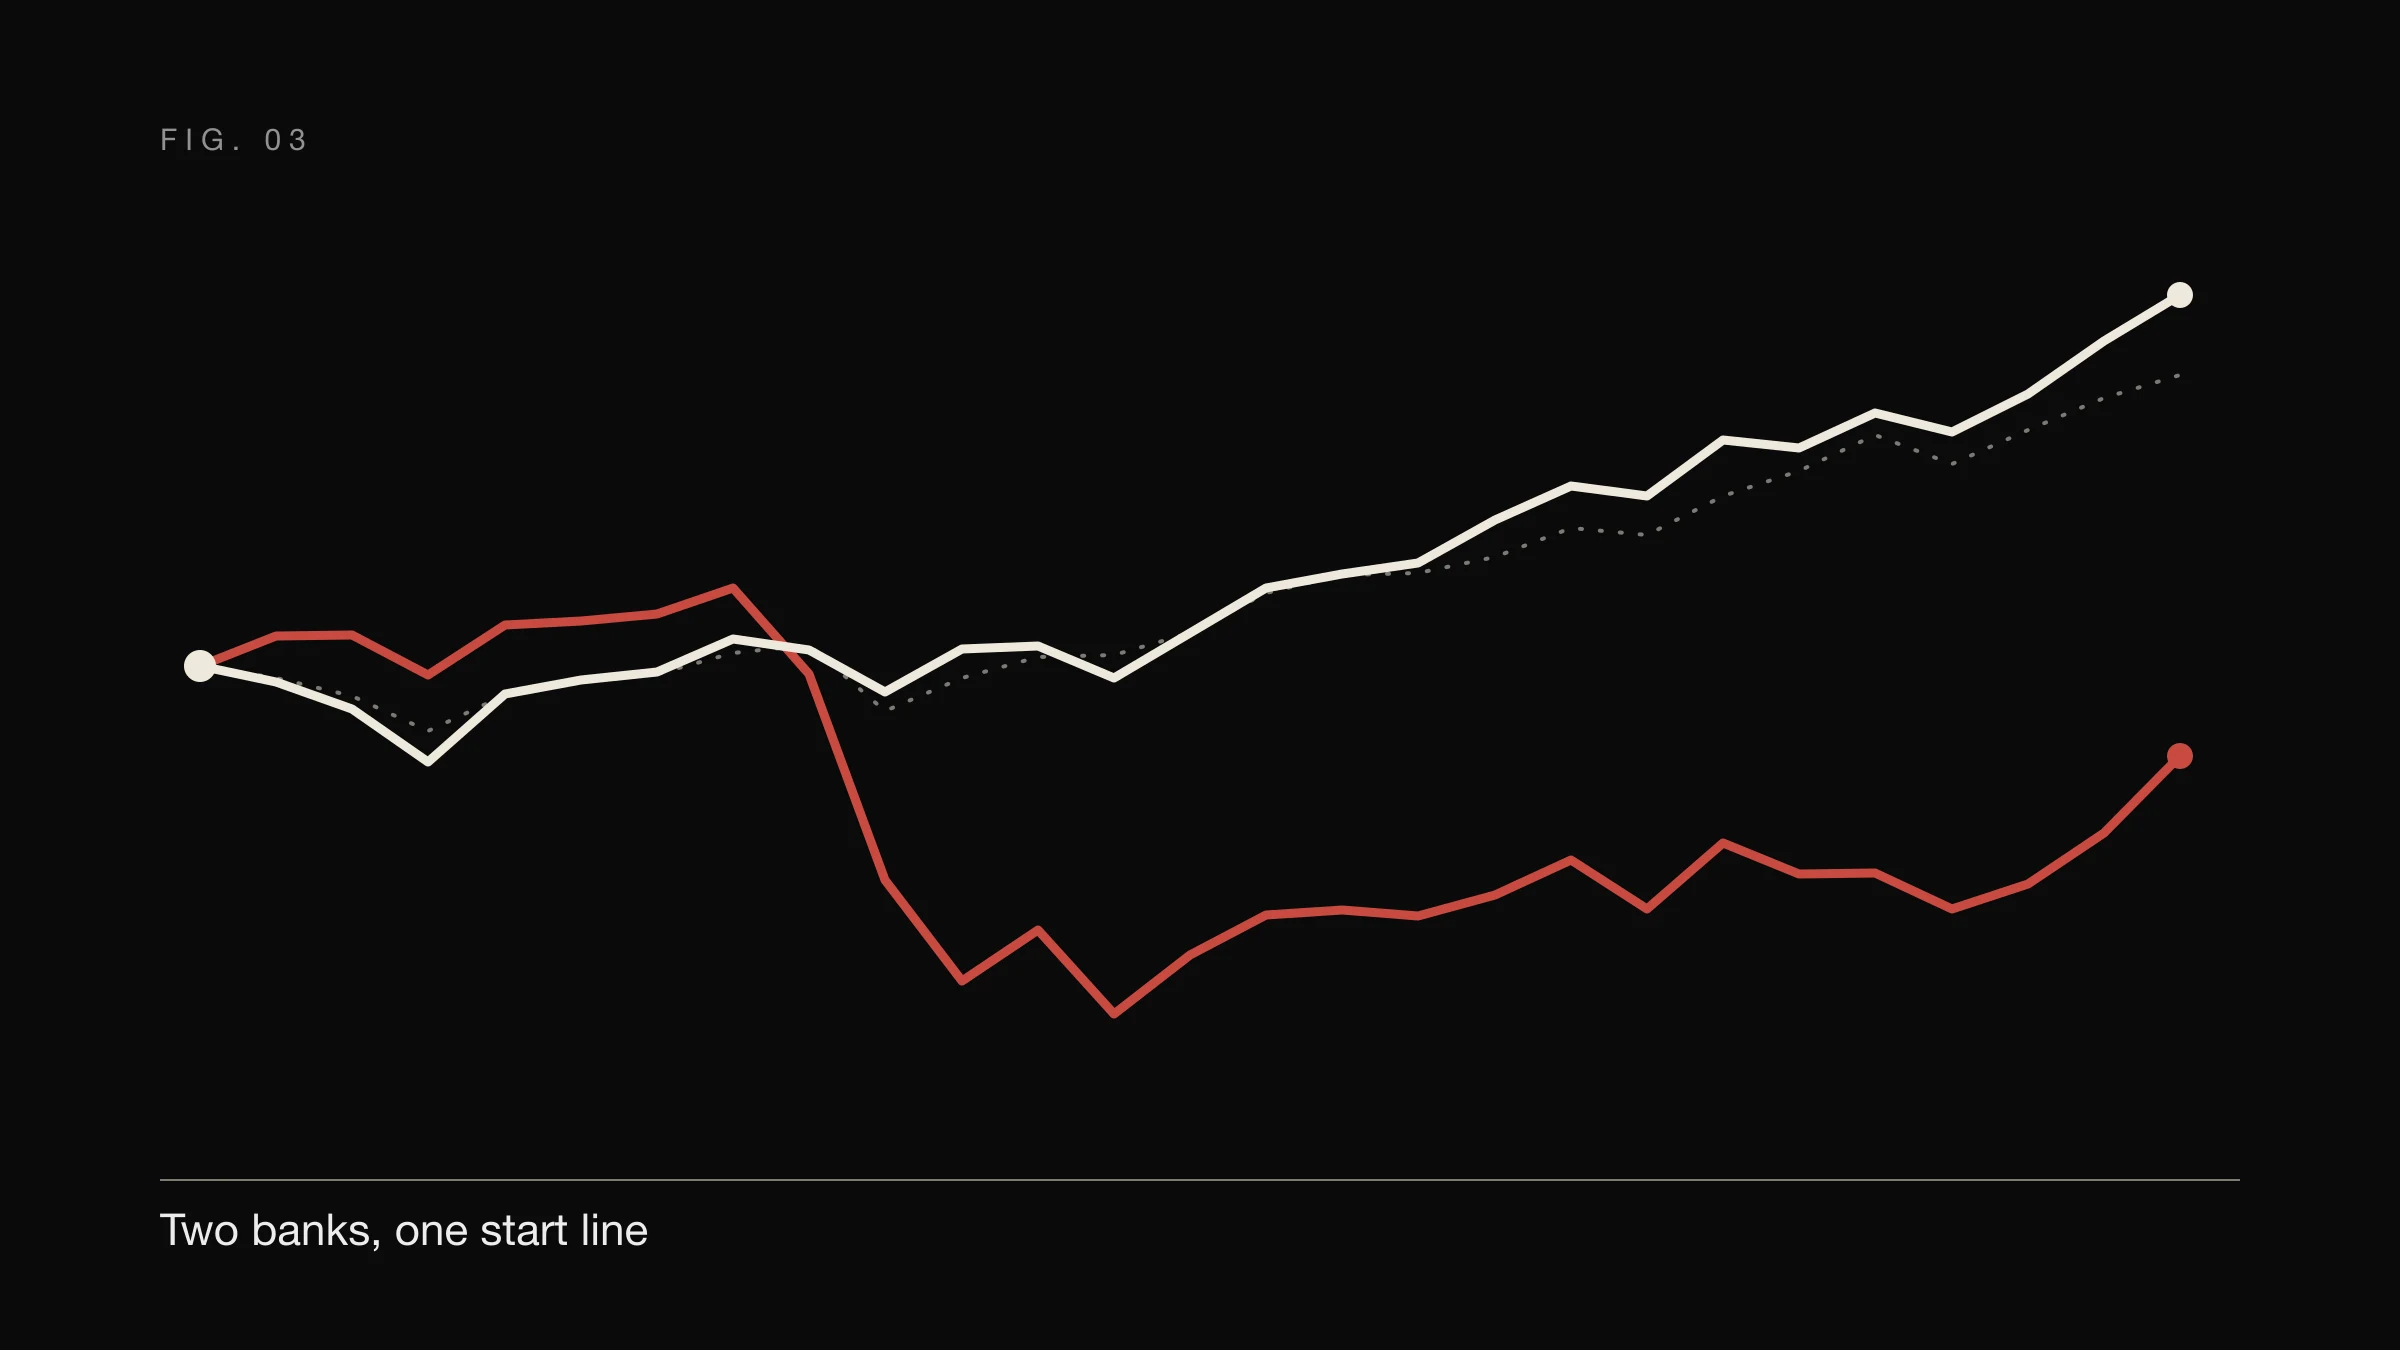
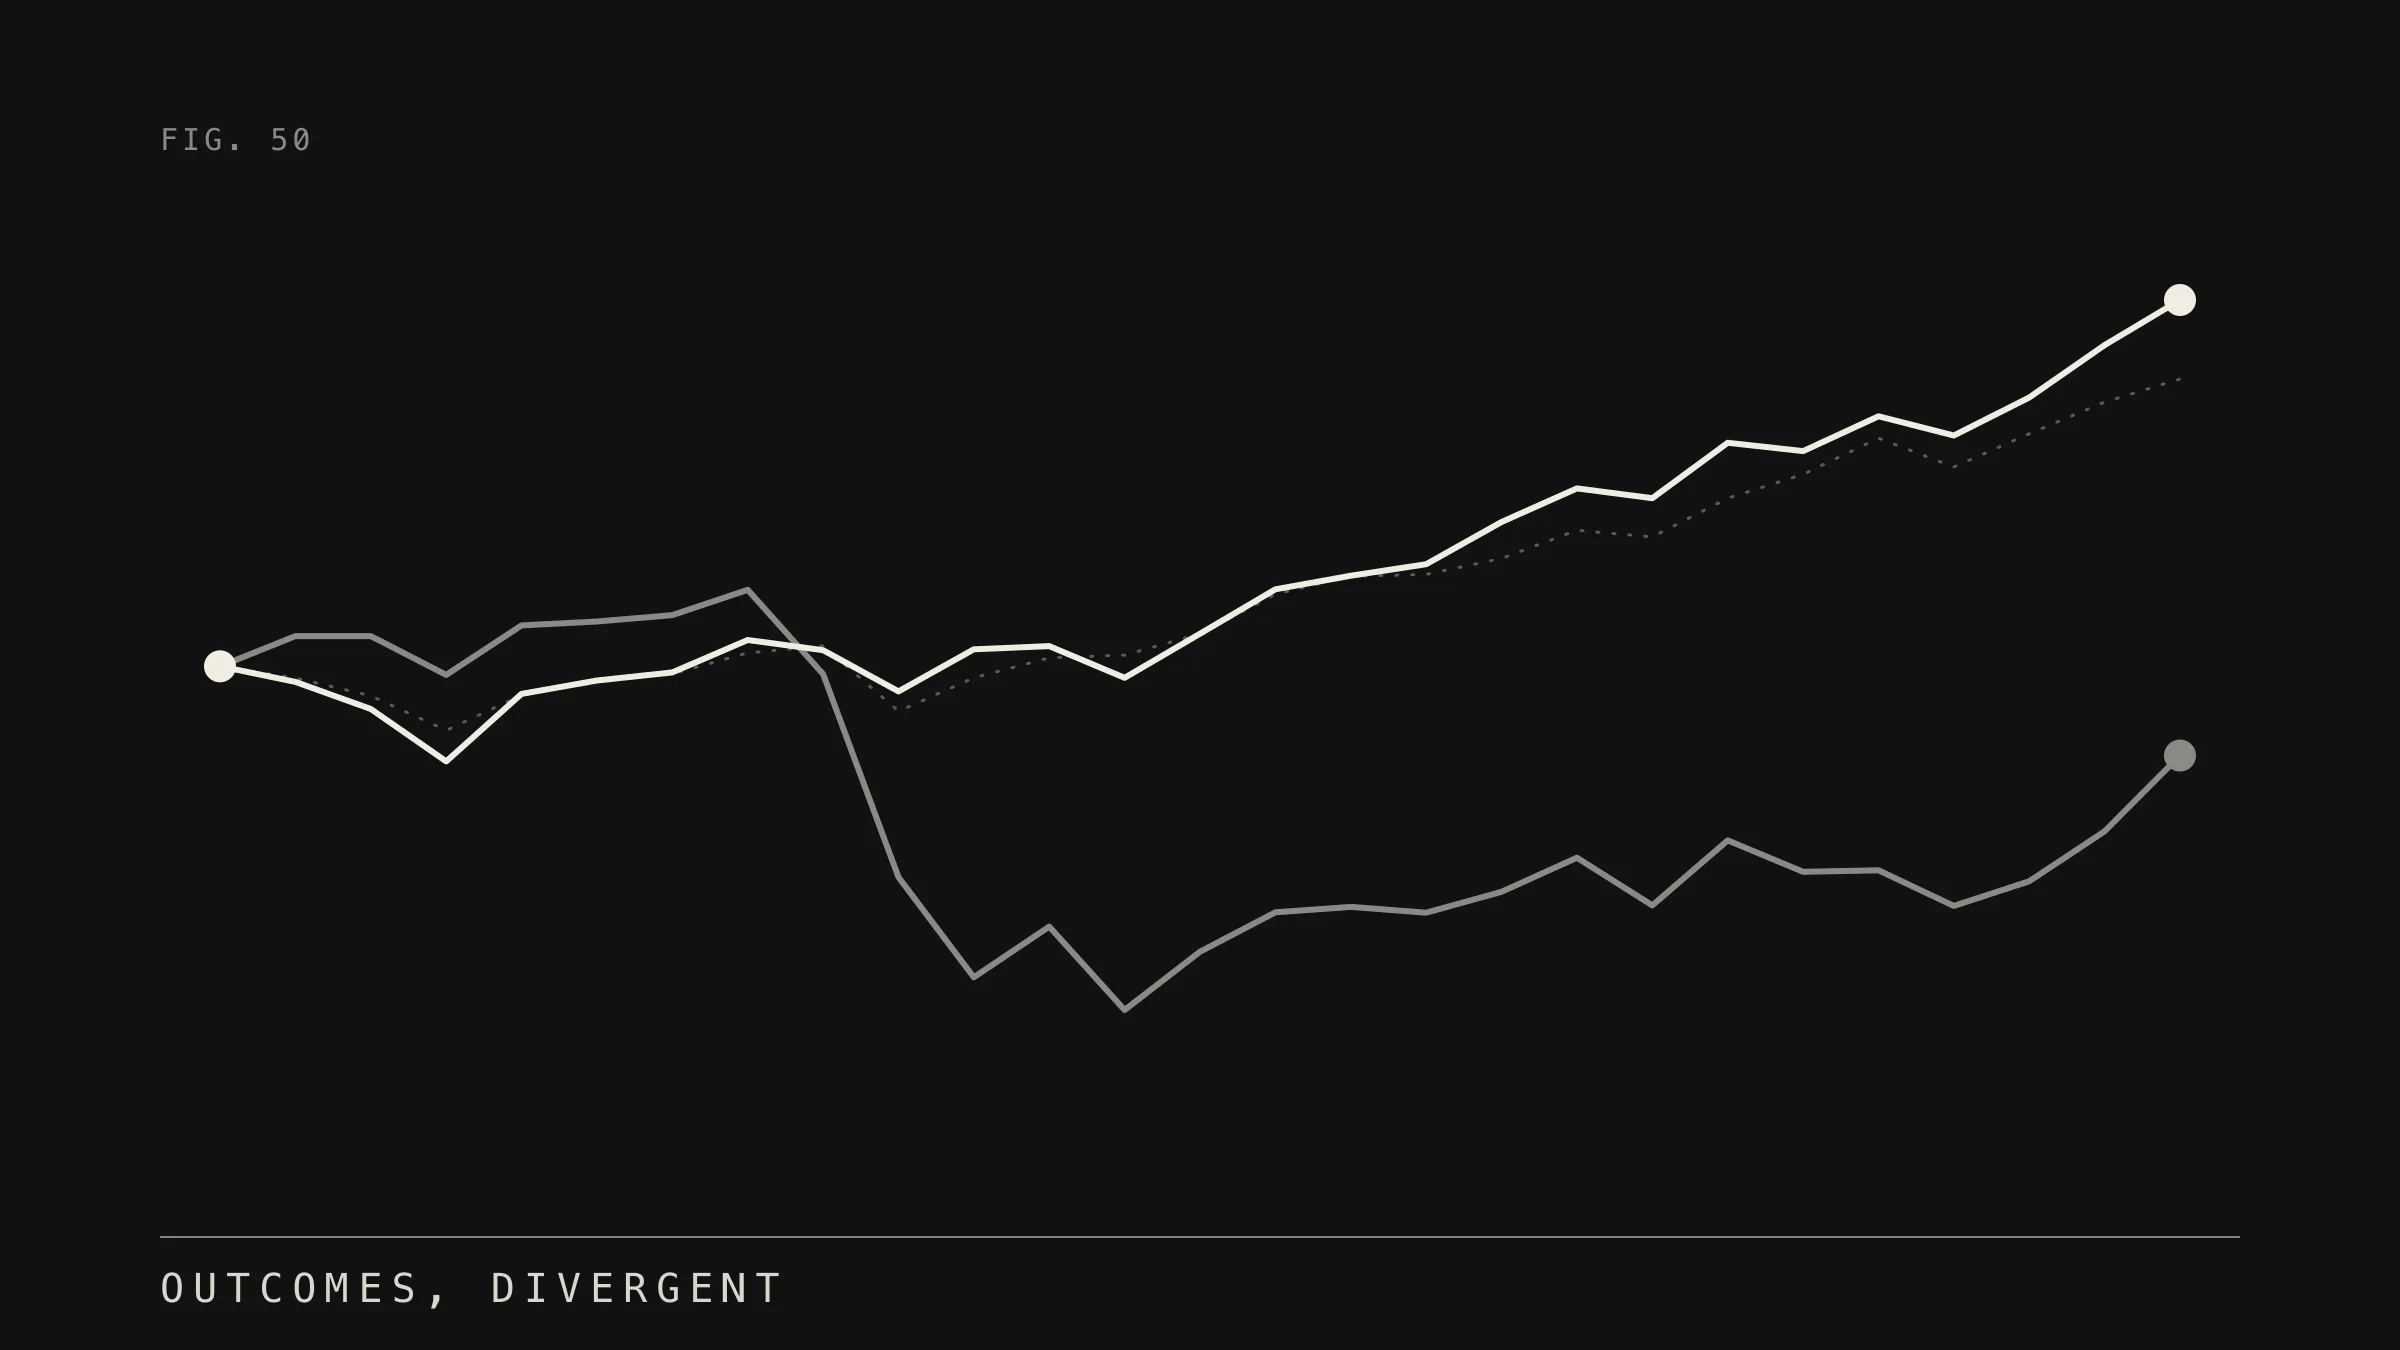
Covers: two-banks animated chart (FIG. 50), Bayesian renumbered to FIG. 03
The staged two-banks essay gets its cover as a monochrome animated
version of its own total-return chart, drawn from the essay's series.
Bayesian moves from 02 to 03 to end the clash with the supply-chain cover.

Claude-Session: https://claude.ai/code/session_013KVruu7CzFKow1UKZBP2GG

diff --git a/src/covers/two-banks-one-start-line.ts b/src/covers/two-banks-one-start-line.ts
@@ -1,0 +1,98 @@
+/* FIG. 50 · OUTCOMES, DIVERGENT
+   The essay's own figure, monochrome: the value of $10,000 invested at
+   the end of 1999 in JPMorgan (cream) and Citigroup (ash), dividends
+   reinvested, on a log scale, with the S&P 500 as a faint dotted
+   reference. Both lines leave one solid dot; one ends high right, the
+   other never gets back. The 27 year-end points are the series from the
+   essay's inline chart (720×430, log scale), mapped into the cover.
+
+   Motion: the start dot pulses once, then both bank lines draw themselves
+   left to right in step, the index line fading in beneath them, and the
+   two end dots land as the lines arrive. Rest: the complete chart. */
+import {
+  type Cover, CREAM, ASH, ASH_DIM, EASE_OUT, EASE_IN_OUT,
+  svg, circle, path, figMark, captionBlock, hold, loop,
+} from './_lib.ts';
+
+/* Year-end y values (chart units) for 1999 … 2025; x is evenly spaced. */
+const JPM = [234.6, 241.0, 252.1, 273.6, 245.9, 240.4, 237.1, 223.8, 228.0, 244.9, 227.6, 226.3, 239.3, 221.2, 203.0, 197.4, 192.7, 175.4, 161.6, 165.6, 142.9, 146.3, 132.0, 139.9, 124.3, 102.8, 84.3];
+const CITI = [234.6, 222.2, 222.2, 238.1, 217.8, 216.2, 213.6, 203.2, 237.8, 321.1, 362.2, 341.4, 375.6, 351.7, 335.5, 333.3, 335.7, 327.1, 313.1, 332.7, 306.0, 318.9, 318.3, 332.9, 322.8, 302.3, 271.2];
+const SPX = [234.6, 239.4, 246.7, 260.9, 246.4, 240.4, 237.7, 229.1, 226.2, 253.0, 239.3, 231.1, 230.0, 221.3, 205.0, 197.6, 196.9, 190.3, 178.8, 181.5, 165.6, 155.8, 141.0, 152.8, 139.2, 126.2, 116.7];
+
+/* Chart → cover mapping: x 64…550.8 → 220…2180; y 84.3…375.6 → 300…1010. */
+const X0 = 220, X1 = 2180, Y0 = 300, Y1 = 1010;
+const px = (i: number) => X0 + (i / 26) * (X1 - X0);
+const py = (y: number) => Y0 + ((y - 84.3) / (375.6 - 84.3)) * (Y1 - Y0);
+const poly = (ys: number[]) => ys.map((y, i) => `${i ? 'L' : 'M'}${px(i).toFixed(1)},${py(y).toFixed(1)}`).join(' ');
+
+const cover: Cover = {
+  slug: 'two-banks-one-start-line',
+  fig: '50',
+  caption: 'OUTCOMES, DIVERGENT',
+
+  still(alt) {
+    return svg(cover.slug, alt, [
+      figMark(cover.fig),
+      path({ d: poly(SPX), fill: 'none', stroke: ASH_DIM, 'stroke-width': 3, 'stroke-dasharray': '2 14', 'stroke-linecap': 'round', 'data-index': '' }),
+      path({ d: poly(CITI), fill: 'none', stroke: ASH, 'stroke-width': 6, 'stroke-linejoin': 'round', 'stroke-linecap': 'round', 'data-line': 'citi' }),
+      path({ d: poly(JPM), fill: 'none', stroke: CREAM, 'stroke-width': 6, 'stroke-linejoin': 'round', 'stroke-linecap': 'round', 'data-line': 'jpm' }),
+      circle({ cx: px(0), cy: py(234.6), r: 16, fill: CREAM, 'data-start': '' }),
+      circle({ cx: px(26), cy: py(JPM[26]), r: 16, fill: CREAM, 'data-end': 'jpm' }),
+      circle({ cx: px(26), cy: py(CITI[26]), r: 16, fill: ASH, 'data-end': 'citi' }),
+      captionBlock(cover.caption),
+    ]);
+  },
+
+  motion(root) {
+    const anims: Animation[] = [];
+    const DRAW_FROM = 0.08, DRAW_TO = 0.62;
+
+    // The start dot pulses once before the lines set off.
+    const start = root.querySelector<SVGCircleElement>('[data-start]');
+    if (start) {
+      start.setAttribute('style', `transform-box: view-box; transform-origin: ${px(0)}px ${py(234.6)}px`);
+      anims.push(loop(start, hold([
+        { offset: 0, transform: 'scale(1)', easing: EASE_IN_OUT },
+        { offset: 0.04, transform: 'scale(1.6)', easing: EASE_IN_OUT },
+        { offset: DRAW_FROM, transform: 'scale(1)' },
+      ])));
+    }
+
+    // Both bank lines draw in step, left to right.
+    root.querySelectorAll<SVGPathElement>('path[data-line]').forEach((p) => {
+      const len = p.getTotalLength();
+      p.setAttribute('stroke-dasharray', String(len));
+      anims.push(loop(p, hold([
+        { offset: 0, strokeDashoffset: len },
+        { offset: DRAW_FROM, strokeDashoffset: len, easing: 'linear' },
+        { offset: DRAW_TO, strokeDashoffset: 0 },
+      ])));
+    });
+
+    // The index reference fades in beneath them.
+    const index = root.querySelector<SVGPathElement>('[data-index]');
+    if (index) {
+      anims.push(loop(index, hold([
+        { offset: 0, opacity: 0 },
+        { offset: 0.2, opacity: 0, easing: EASE_IN_OUT },
+        { offset: 0.55, opacity: 1 },
+      ])));
+    }
+
+    // End dots land as the lines arrive.
+    root.querySelectorAll<SVGCircleElement>('[data-end]').forEach((c) => {
+      const cx = Number(c.getAttribute('cx')), cy = Number(c.getAttribute('cy'));
+      c.setAttribute('style', `transform-box: view-box; transform-origin: ${cx}px ${cy}px`);
+      anims.push(loop(c, hold([
+        { offset: 0, transform: 'scale(0)', opacity: 0 },
+        { offset: DRAW_TO - 0.02, transform: 'scale(0)', opacity: 0, easing: EASE_OUT },
+        { offset: DRAW_TO + 0.04, transform: 'scale(1.4)', opacity: 1, easing: EASE_IN_OUT },
+        { offset: DRAW_TO + 0.1, transform: 'scale(1)', opacity: 1 },
+      ])));
+    });
+
+    return anims;
+  },
+};
+
+export default cover;

diff --git a/src/covers/bayesian-thinking-for-cfos.ts b/src/covers/bayesian-thinking-for-cfos.ts
@@ -1,4 +1,4 @@
-/* FIG. 02 · BELIEF, REVISED
+/* FIG. 03 · BELIEF, REVISED
    Three bell curves over a ticked baseline: a wide faint outline at left
    (the prior), a dashed curve at right (the evidence), and between them a
    tall narrow filled curve (the posterior), its peak pulled towards the
@@ -40,7 +40,7 @@ function bell(b: Bell, closed: boolean): string {
 
 const cover: Cover = {
   slug: 'bayesian-thinking-for-cfos',
-  fig: '02',
+  fig: '03',
   caption: 'BELIEF, REVISED',
 
   still(alt) {
@@ -75,7 +75,7 @@ const cover: Cover = {
       line({ x1: b.x, y1: b.top, x2: b.x, y2: BASE, stroke, 'stroke-width': 2, 'stroke-dasharray': '8 8', ...extra });
 
     return svg(cover.slug, alt, [
-      text('FIG. 02', { x: 191, y: 121, size: 29, spacing: 9.6, fill: CREAM_DIM }),
+      text('FIG. 03', { x: 191, y: 121, size: 29, spacing: 9.6, fill: CREAM_DIM }),
       g(squares),
       // prior: wide, faint
       path({ d: bell(PRIOR, false), fill: 'none', stroke: ASH_DIM, 'stroke-width': 2.5 }),

diff --git a/docs/superpowers/specs/2026-09-04-cover-concepts-catalogue.md b/docs/superpowers/specs/2026-09-04-cover-concepts-catalogue.md
@@ -1,6 +1,6 @@
 # Cover concepts catalogue — abstract, animated (2026-09-04)
 
-STATUS: all built and deployed 2026-09-04 (commit 0b75b93); figure numbers assigned 05–49 by essay date, once-upon-a-balance-sheet recaptioned 'STORY, THREADED'.
+STATUS: all built and deployed 2026-09-04 (commit 0b75b93); figure numbers assigned 05–49 by essay date, Bayesian renumbered 02→03 on 4 Sep, two-banks is 50, once-upon-a-balance-sheet recaptioned 'STORY, THREADED'.
 
 Proposals for moving every remaining essay cover to the cream-on-near-black "FIG." fabric, animated. Generated from a full read of each essay; see `docs/superpowers/specs/2026-09-04-animated-covers-design.md` for the shipped pattern. Ordered newest essay first.
 
